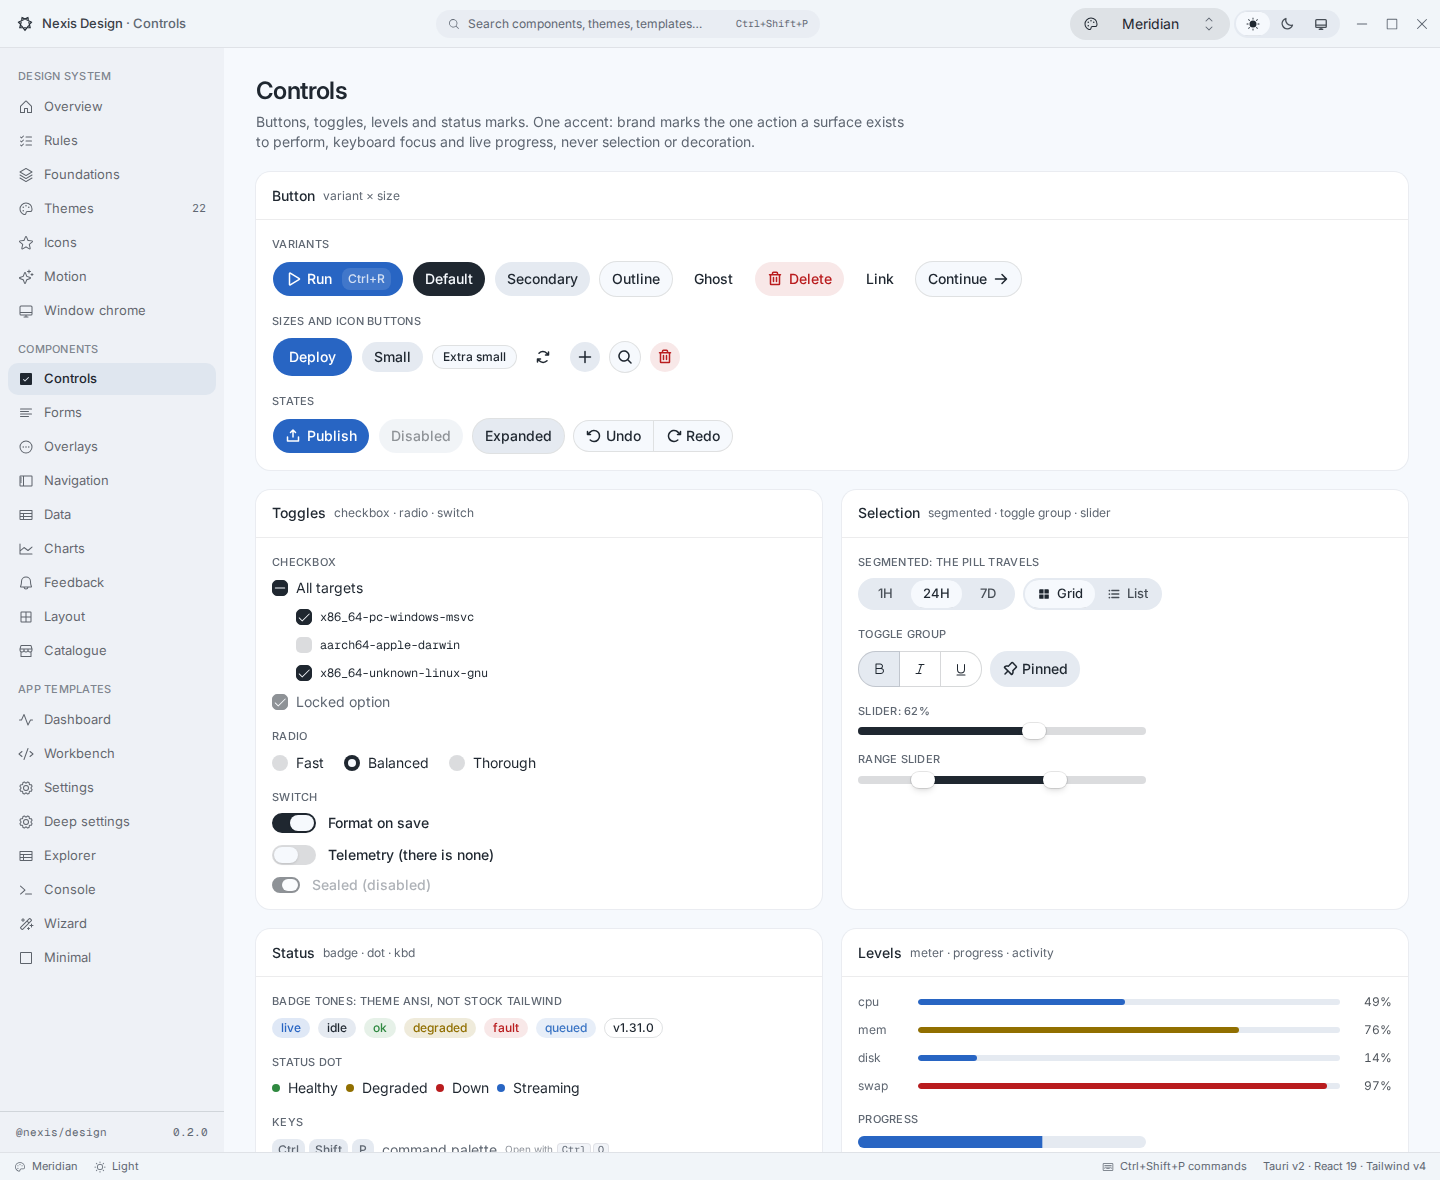
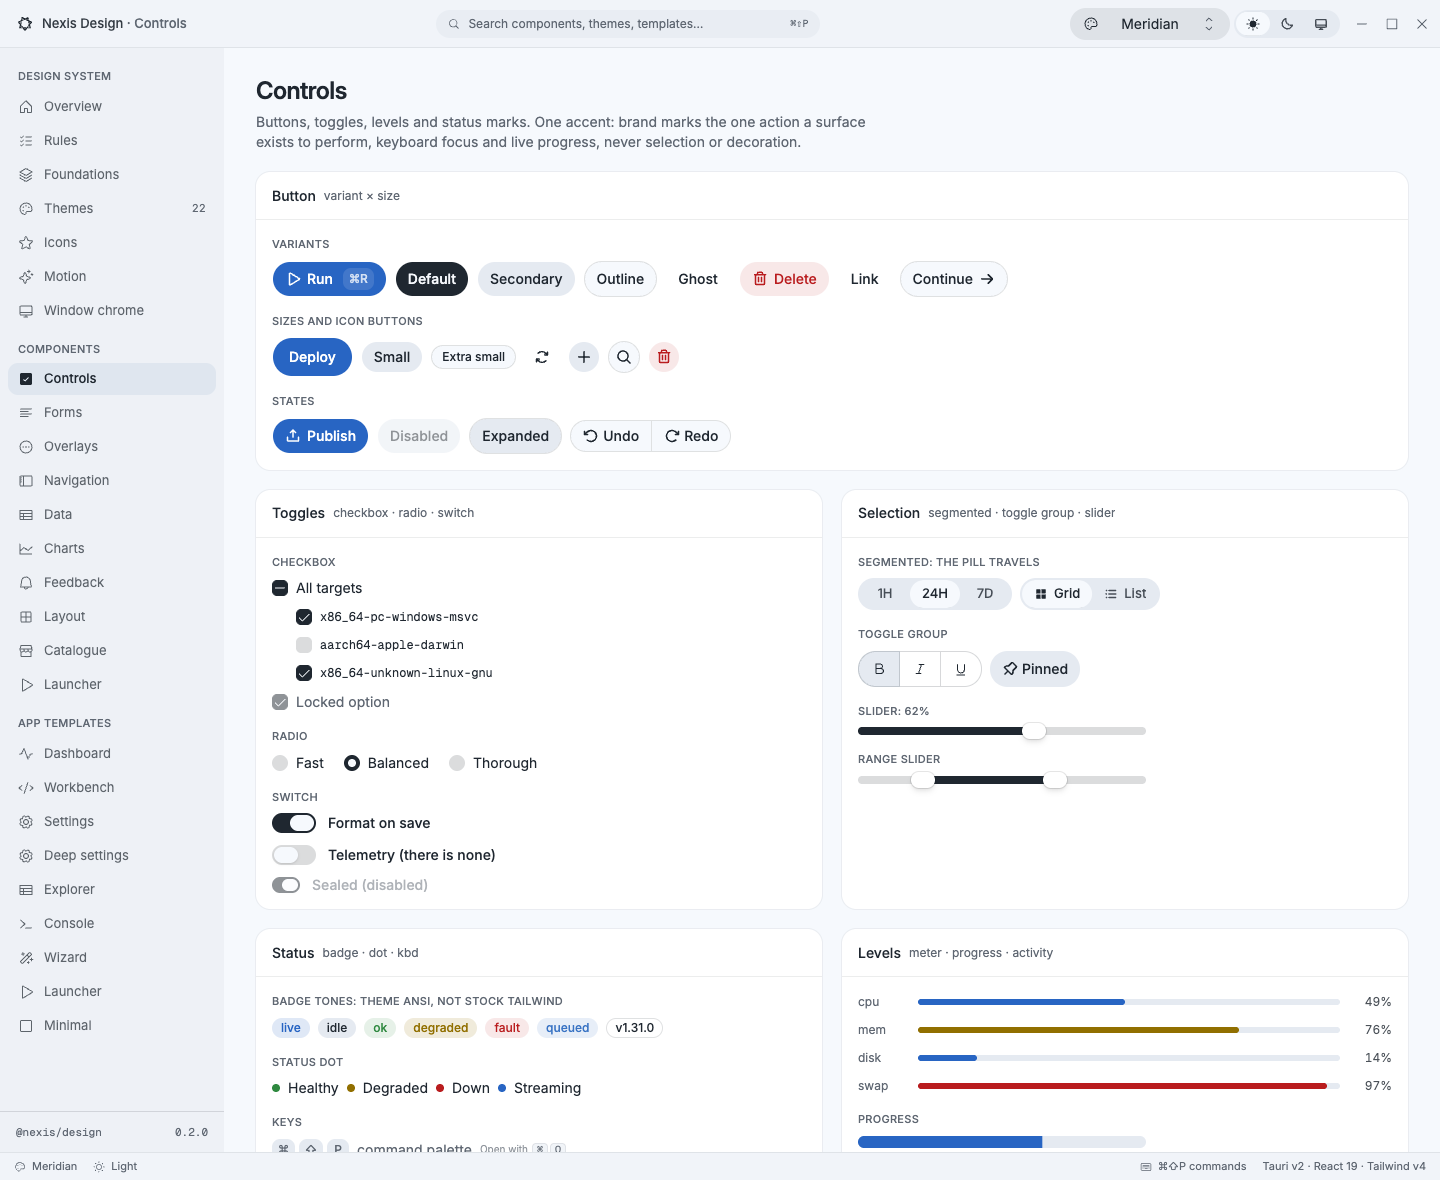
Fix brand-button and muted-text contrast
White on the default coral was 2.6:1; --brand-foreground is now the
near-black foreground (7.5:1). brandOf() returns white explicitly when a
theme's accent wants it, so the dark default never reaches a theme.
Light --muted-foreground steps from 0.56 to 0.53 L (4.8:1 on the muted
panels), and SidebarNav labels / SettingsTree meta drop the /80 fade.
The launcher page now passes axe; 244 baseline findings cleared. One
clip-path false positive (GlidingTabs' clipped pill) is baselined.

diff --git a/src/theme/applyTheme.ts b/src/theme/applyTheme.ts
@@ -115,9 +115,9 @@ export function applyTheme(theme: Theme, mode: ThemeMode): void {
 /** The accent a theme's colours give, and the text that goes on it. When the
  * accent is the theme's `primary`, its `primaryForeground` was made for it;
  * when it is a different `ring` (Tokyo Night), the background is the safe
- * choice, since an accent has to read against it. `brandForeground` is left
- * out when the stylesheet's white reads better (a mid-tone accent on a light
- * community theme), so white stays. */
+ * choice, since an accent has to read against it. When white reads better
+ * (a mid-tone accent on a light community theme) it is white, said outright:
+ * the stylesheet's own default is dark text for the default coral. */
 export function brandOf(colors: ThemeColors): { brand?: string; brandForeground?: string } {
   const brand = colors.ring ?? colors.primary;
   if (!brand) return {};
@@ -128,7 +128,7 @@ export function brandOf(colors: ThemeColors): { brand?: string; brandForeground?
   if (lb === null || lo === null) return { brand, brandForeground: own };
   const ownRatio = (Math.max(lb, lo) + 0.05) / (Math.min(lb, lo) + 0.05);
   const whiteRatio = 1.05 / (lb + 0.05);
-  return whiteRatio > ownRatio ? { brand } : { brand, brandForeground: own };
+  return whiteRatio > ownRatio ? { brand, brandForeground: "#ffffff" } : { brand, brandForeground: own };
 }
 
 /** WCAG relative luminance of a `#rrggbb` colour; null for anything else. */

diff --git a/src/styles/globals.css b/src/styles/globals.css
@@ -132,9 +132,10 @@
 :root {
     --background: oklch(1 0 0);
     /* Brand accent — coral/salmon used for primary CTAs, active/selected states,
-       and the AI agent indicator. Not for links or decorative elements. */
+       and the AI agent indicator. Not for links or decorative elements.
+       Its text is near-black: white on this coral is 2.6:1, under AA. */
     --brand: oklch(0.72 0.15 35);
-    --brand-foreground: oklch(1 0 0);
+    --brand-foreground: oklch(0.148 0.004 228.8);
     --foreground: oklch(0.148 0.004 228.8);
     --card: oklch(1 0 0);
     --card-foreground: oklch(0.148 0.004 228.8);
@@ -145,7 +146,7 @@
     --secondary: oklch(0.963 0.002 197.1);
     --secondary-foreground: oklch(0.218 0.008 223.9);
     --muted: oklch(0.963 0.002 197.1);
-    --muted-foreground: oklch(0.56 0.021 213.5);
+    --muted-foreground: oklch(0.53 0.021 213.5); /* 4.8:1 on the muted panels, 5.2:1 on white */
     --accent: oklch(0.963 0.002 197.1);
     --accent-foreground: oklch(0.218 0.008 223.9);
     --destructive: oklch(0.577 0.245 27.325);
@@ -171,7 +172,7 @@
 .dark {
     --background: oklch(0.148 0.004 228.8);
     --brand: oklch(0.72 0.15 35);
-    --brand-foreground: oklch(1 0 0);
+    --brand-foreground: oklch(0.148 0.004 228.8);
     --foreground: oklch(0.987 0.002 197.1);
     --card: oklch(0.218 0.008 223.9);
     --card-foreground: oklch(0.987 0.002 197.1);

diff --git a/gallery/default-vars.ts b/gallery/default-vars.ts
@@ -6,7 +6,7 @@ export const DEFAULT_VARS = {
   "light": {
     "background": "oklch(1 0 0)",
     "brand": "oklch(0.72 0.15 35)",
-    "brand-foreground": "oklch(1 0 0)",
+    "brand-foreground": "oklch(0.148 0.004 228.8)",
     "foreground": "oklch(0.148 0.004 228.8)",
     "card": "oklch(1 0 0)",
     "card-foreground": "oklch(0.148 0.004 228.8)",
@@ -17,7 +17,7 @@ export const DEFAULT_VARS = {
     "secondary": "oklch(0.963 0.002 197.1)",
     "secondary-foreground": "oklch(0.218 0.008 223.9)",
     "muted": "oklch(0.963 0.002 197.1)",
-    "muted-foreground": "oklch(0.56 0.021 213.5)",
+    "muted-foreground": "oklch(0.53 0.021 213.5)",
     "accent": "oklch(0.963 0.002 197.1)",
     "accent-foreground": "oklch(0.218 0.008 223.9)",
     "destructive": "oklch(0.577 0.245 27.325)",
@@ -52,7 +52,7 @@ export const DEFAULT_VARS = {
   "dark": {
     "background": "oklch(0.148 0.004 228.8)",
     "brand": "oklch(0.72 0.15 35)",
-    "brand-foreground": "oklch(1 0 0)",
+    "brand-foreground": "oklch(0.148 0.004 228.8)",
     "foreground": "oklch(0.987 0.002 197.1)",
     "card": "oklch(0.218 0.008 223.9)",
     "card-foreground": "oklch(0.987 0.002 197.1)",

diff --git a/src/theme/themes/themes.contrast.test.ts b/src/theme/themes/themes.contrast.test.ts
@@ -205,8 +205,8 @@ describe("theme registry", () => {
 });
 
 describe("the accent's own text", () => {
-  // Text on the brand button. The stylesheet's white only suits the default
-  // theme's coral: on a dark theme the accent is a light colour. Nexis themes
+  // Text on the brand button. The default theme's coral takes the
+  // stylesheet's near-black; a theme's own accent gets its own text. Nexis themes
   // hold 4.5:1. Community palettes are kept as authored, and three light
   // ones (Nord, Gruvbox, Rose Pine) have a mid-tone accent that nothing
   // reaches 4.5 on, so they hold the 3:1 floor for bold UI text.
@@ -220,8 +220,8 @@ describe("the accent's own text", () => {
       if (!c) return;
       const { brand, brandForeground } = brandOf(c);
       expect(brand).toBeDefined();
-      // No brandForeground means the stylesheet's white stays.
-      const text = brandForeground ?? "#ffffff";
+      expect(brandForeground).toBeDefined();
+      const text = brandForeground as string;
       expect(contrast(text, brand as string)).toBeGreaterThanOrEqual(community.has(theme.id) ? 3 : 4.5);
     },
   );

diff --git a/gallery/pages/themes.tsx b/gallery/pages/themes.tsx
@@ -1,5 +1,6 @@
 import type * as React from "react";
 import {
+  brandOf,
   cn,
   DEFAULT_THEME_ID,
   Icon,
@@ -28,7 +29,10 @@ function scopedVars(theme: Theme, mode: "light" | "dark"): React.CSSProperties {
     const v = theme.variants[mode] ?? theme.variants.dark ?? theme.variants.light;
     const colors: ThemeColors = v?.colors ?? {};
     for (const [k, val] of Object.entries(colors)) if (val && k !== "radius") out[`--${KEBAB(k)}`] = val;
-    out["--brand"] = colors.ring ?? colors.primary ?? out["--primary"];
+    // The same accent and accent text applyTheme() would set.
+    const { brand, brandForeground } = brandOf(colors);
+    out["--brand"] = brand ?? out["--primary"];
+    if (brandForeground) out["--brand-foreground"] = brandForeground;
     v?.terminal?.ansi?.forEach((c, i) => {
       out[`--terminal-ansi-${i >= 8 ? "bright-" : ""}${ANSI[i % 8]}`] = c;
     });

diff --git a/src/components/ui/sidebar-nav.tsx b/src/components/ui/sidebar-nav.tsx
@@ -87,7 +87,7 @@ export function SidebarNav<Id extends string>({
           <React.Fragment key={section.title ?? si}>
             {section.pin === "end" && sections[si - 1]?.pin !== "end" && <div aria-hidden className="min-h-4 flex-1" />}
             {section.title && !collapsed && (
-              <div className="relative z-10 px-2.5 pt-3 pb-1 text-caption font-medium tracking-wide text-muted-foreground/80 uppercase first:pt-1">
+              <div className="relative z-10 px-2.5 pt-3 pb-1 text-caption font-medium tracking-wide text-muted-foreground uppercase first:pt-1">
                 {section.title}
               </div>
             )}

diff --git a/src/components/ui/settings-tree.tsx b/src/components/ui/settings-tree.tsx
@@ -236,7 +236,7 @@ export function SettingsTree({
                             )}
                           >
                             <span className="min-w-0 flex-1 truncate">{c.label}</span>
-                            {c.meta !== undefined && <span className="shrink-0 text-caption text-muted-foreground/80">{c.meta}</span>}
+                            {c.meta !== undefined && <span className="shrink-0 text-caption text-muted-foreground">{c.meta}</span>}
                           </div>
                         );
                       })}

diff --git a/src/theme/index.ts b/src/theme/index.ts
@@ -1,4 +1,4 @@
-export { applyTheme, clearTheme } from "./applyTheme";
+export { applyTheme, brandOf, clearTheme } from "./applyTheme";
 export {
   ThemeProvider,
   useTheme,

diff --git a/docs/CHANGES.md b/docs/CHANGES.md
@@ -21,6 +21,26 @@ Every **Apps must** starts the same way: bump the pin, `pnpm install`, then
 delete `node_modules/.vite` (or run `pnpm dev --force` once) so Vite does not
 keep serving the old package (PITFALLS §17).
 
+## Unreleased (contrast)
+
+The launcher page put the brand button and `SidebarNav`'s section labels
+in front of the axe check, and both failed WCAG AA.
+
+- **Text on the brand accent is near-black** (`--brand-foreground`, both
+  modes): white on the default coral was 2.6:1, dark text is 7.5:1. Every
+  `variant="brand"` button changes look. `brandOf()` (now exported) names
+  white outright when a theme's accent wants it, so the new default never
+  leaks onto a theme.
+- **`--muted-foreground` is a step darker in light mode** (`oklch(0.53 …)`,
+  was `0.56`): it sat at 4.25–4.4:1 on the muted panels. 4.8:1 now. This
+  cleared 244 of the a11y baseline's findings.
+- **No more faded muted text:** `SidebarNav` section labels and
+  `SettingsTree` meta drop `text-muted-foreground/80`.
+- The Themes page swatches take each theme's accent text from `brandOf()`.
+
+**Apps must** check any hand-rolled `text-white` on `bg-brand` (use
+`text-brand-foreground`), and any `text-muted-foreground/<n>` on small text.
+
 ## Unreleased (launcher)
 
 From Stipple, a game launcher that started on `minimal` because no template
